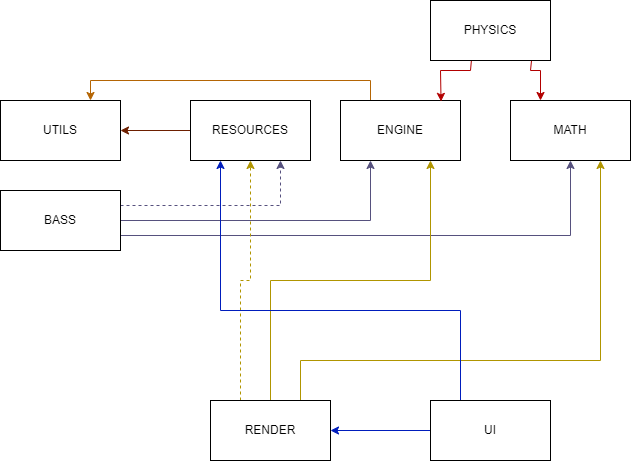
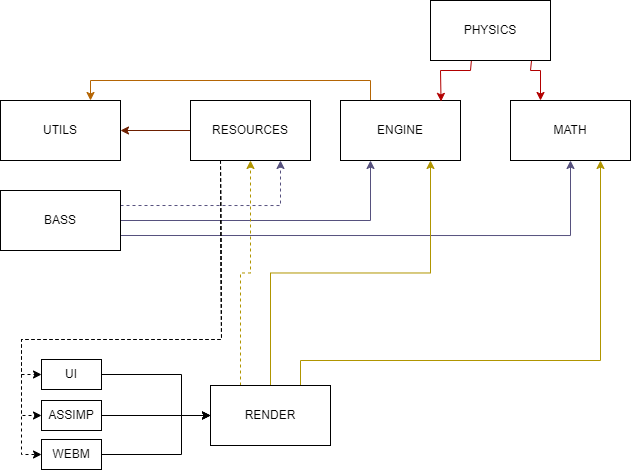
Created RAWRBOX.ASSIMP

diff --git a/assimp/include/rawrbox/assimp/utils/model.hpp b/assimp/include/rawrbox/assimp/utils/model.hpp
@@ -1,0 +1,77 @@
+#pragma once
+
+#include <rawrbox/assimp/importer.hpp>
+#include <rawrbox/render/materials/base.hpp>
+
+namespace rawrbox {
+
+	class AssimpUtils {
+	public:
+		// ---
+		static rawrbox::Mesh extractMesh(const rawrbox::AssimpImporter& model, size_t indx) {
+			auto& meshes = model.meshes;
+			if (meshes.empty() || indx < 0 || indx >= meshes.size()) throw std::runtime_error(fmt::format("[RawrBox-AssimpUtils] Failed to extract mesh '{}'!", indx));
+
+			auto& assimpMesh = meshes[indx];
+
+			rawrbox::Mesh mesh;
+			mesh.name = assimpMesh.name;
+			mesh.bbox = assimpMesh.bbox;
+			mesh.matrix = assimpMesh.matrix;
+
+			// Textures ---
+			if (assimpMesh.material != nullptr) {
+				auto mat = assimpMesh.material;
+				mesh.setWireframe(mat->wireframe);
+				mesh.setBlend(mat->blending);
+				mesh.setCulling(mat->doubleSided ? 0 : BGFX_STATE_CULL_CCW);
+
+				// DIFFUSE -----
+				if (mat->diffuse.has_value()) {
+					mesh.setTexture(mat->diffuse.value() == nullptr ? rawrbox::MISSING_TEXTURE.get() : mat->diffuse.value().get());
+				} else {
+					mesh.setTexture(rawrbox::WHITE_TEXTURE.get()); // Default
+				}
+
+				mesh.setColor(mat->diffuseColor);
+				// --------
+
+				// NORMAL -----
+				if (mat->normal != nullptr) {
+					mesh.setNormalTexture(mat->normal.get());
+				}
+				// --------
+
+				// SPECULAR -----
+				if (mat->specular != nullptr) {
+					mesh.setSpecularTexture(mat->specular.get(), mat->shininess);
+				}
+				// --------
+
+				// EMISSION -----
+				if (mat->emissive != nullptr) {
+					mesh.setEmissionTexture(mat->emissive.get(), mat->intensity);
+				}
+				// --------
+			}
+			// ------------
+
+			mesh.indices = assimpMesh.indices;
+			mesh.vertices = assimpMesh.vertices;
+
+			// Bones
+			if (assimpMesh.skeleton != nullptr) {
+				mesh.skeleton = assimpMesh.skeleton;
+				mesh.setOptimizable(false);
+			}
+			// -------------------
+
+			mesh.baseVertex = 0;
+			mesh.baseIndex = 0;
+			mesh.totalVertex = static_cast<uint16_t>(mesh.vertices.size());
+			mesh.totalIndex = static_cast<uint16_t>(mesh.indices.size());
+
+			return mesh;
+		}
+	};
+} // namespace rawrbox

diff --git a/samples/002-generated-models/src/game.cpp b/samples/002-generated-models/src/game.cpp
@@ -2,10 +2,8 @@
 #include <rawrbox/render/camera/orbital.hpp>
 #include <rawrbox/render/model/mesh.hpp>
 #include <rawrbox/render/model/utils/mesh.hpp>
-#include <rawrbox/render/resources/assimp/model.hpp>
 #include <rawrbox/render/resources/font.hpp>
 #include <rawrbox/render/resources/texture.hpp>
-#include <rawrbox/render/utils/assimp/model.hpp>
 #include <rawrbox/resources/manager.hpp>
 #include <rawrbox/utils/keys.hpp>
 
@@ -40,7 +38,6 @@ namespace model {
 
 		rawrbox::RESOURCES::addLoader<rawrbox::TextureLoader>();
 		rawrbox::RESOURCES::addLoader<rawrbox::FontLoader>();
-		rawrbox::RESOURCES::addLoader<rawrbox::AssimpLoader>();
 
 		// Load content ---
 		this->loadContent();

diff --git a/samples/003-assimp/src/game.cpp b/samples/003-assimp/src/game.cpp
@@ -1,8 +1,8 @@
+#include <rawrbox/assimp/importer.hpp>
+#include <rawrbox/assimp/resources/model.hpp>
 #include <rawrbox/render/camera/orbital.hpp>
 #include <rawrbox/render/gizmos.hpp>
-#include <rawrbox/render/model/assimp/assimp_importer.hpp>
 #include <rawrbox/render/model/utils/mesh.hpp>
-#include <rawrbox/render/resources/assimp/model.hpp>
 #include <rawrbox/render/resources/font.hpp>
 #include <rawrbox/resources/manager.hpp>
 #include <rawrbox/utils/keys.hpp>

diff --git a/assimp/src/resources/model.cpp b/assimp/src/resources/model.cpp
@@ -1,5 +1,5 @@
 
-#include <rawrbox/render/resources/assimp/model.hpp>
+#include <rawrbox/assimp/resources/model.hpp>
 
 namespace rawrbox {
 	// Resource ----
@@ -25,7 +25,7 @@ namespace rawrbox {
 		       fileExtention == ".fbx" ||
 		       fileExtention == ".dae" ||
 		       fileExtention == ".3ds" ||
-		       fileExtention == ".mdl" ||
+		       // fileExtention == ".mdl" ||
 		       fileExtention == ".gltf" ||
 		       fileExtention == ".md5mesh";
 	}

diff --git a/assimp/include/rawrbox/assimp/model.hpp b/assimp/include/rawrbox/assimp/model.hpp
@@ -1,10 +1,10 @@
 #pragma once
 
+#include <rawrbox/assimp/importer.hpp>
+#include <rawrbox/assimp/utils/model.hpp>
 #include <rawrbox/render/light/point.hpp>
 #include <rawrbox/render/light/spot.hpp>
-#include <rawrbox/render/model/assimp/assimp_importer.hpp>
 #include <rawrbox/render/model/model.hpp>
-#include <rawrbox/render/utils/assimp/model.hpp>
 
 namespace rawrbox {
 	template <typename M = rawrbox::MaterialBase>

diff --git a/samples/003-assimp/include/assimp/game.hpp b/samples/003-assimp/include/assimp/game.hpp
@@ -1,9 +1,9 @@
 #pragma once
 
+#include <rawrbox/assimp/model.hpp>
 #include <rawrbox/engine/engine.hpp>
 #include <rawrbox/render/materials/lit.hpp>
 #include <rawrbox/render/materials/skinned.hpp>
-#include <rawrbox/render/model/assimp/assimp_model.hpp>
 #include <rawrbox/render/model/text3D.hpp>
 #include <rawrbox/render/window.hpp>
 

diff --git a/samples/012-webm/include/webm_test/game.hpp b/samples/012-webm/include/webm_test/game.hpp
@@ -1,7 +1,7 @@
 #pragma once
 
+#include <rawrbox/assimp/model/model.hpp>
 #include <rawrbox/engine/engine.hpp>
-#include <rawrbox/render/model/assimp/assimp_model.hpp>
 #include <rawrbox/render/model/model.hpp>
 #include <rawrbox/render/window.hpp>
 

diff --git a/assimp/src/importer.cpp b/assimp/src/importer.cpp
@@ -1,5 +1,5 @@
 
-#include <rawrbox/render/model/assimp/assimp_importer.hpp>
+#include <rawrbox/assimp/importer.hpp>
 #include <rawrbox/render/texture/image.hpp>
 #include <rawrbox/utils/pack.hpp>
 #include <rawrbox/utils/string.hpp>

diff --git a/render/include/rawrbox/render/model/instanced.hpp b/render/include/rawrbox/render/model/instanced.hpp
@@ -1,7 +1,6 @@
 #pragma once
 
 #include <rawrbox/render/materials/instanced.hpp>
-#include <rawrbox/render/model/assimp/assimp_importer.hpp>
 #include <rawrbox/render/model/model.hpp>
 
 namespace rawrbox {

diff --git a/assimp/include/rawrbox/utils/model.hpp b/assimp/include/rawrbox/utils/model.hpp
@@ -1,7 +1,7 @@
 #pragma once
 
+#include <rawrbox/assimp/importer.hpp>
 #include <rawrbox/render/materials/base.hpp>
-#include <rawrbox/render/model/assimp/assimp_importer.hpp>
 
 namespace rawrbox {
 

diff --git a/assimp/include/rawrbox/assimp/resources/model.hpp b/assimp/include/rawrbox/assimp/resources/model.hpp
@@ -1,6 +1,6 @@
 #pragma once
 
-#include <rawrbox/render/model/assimp/assimp_importer.hpp>
+#include <rawrbox/assimp/importer.hpp>
 #include <rawrbox/resources/loader.hpp>
 
 namespace rawrbox {
